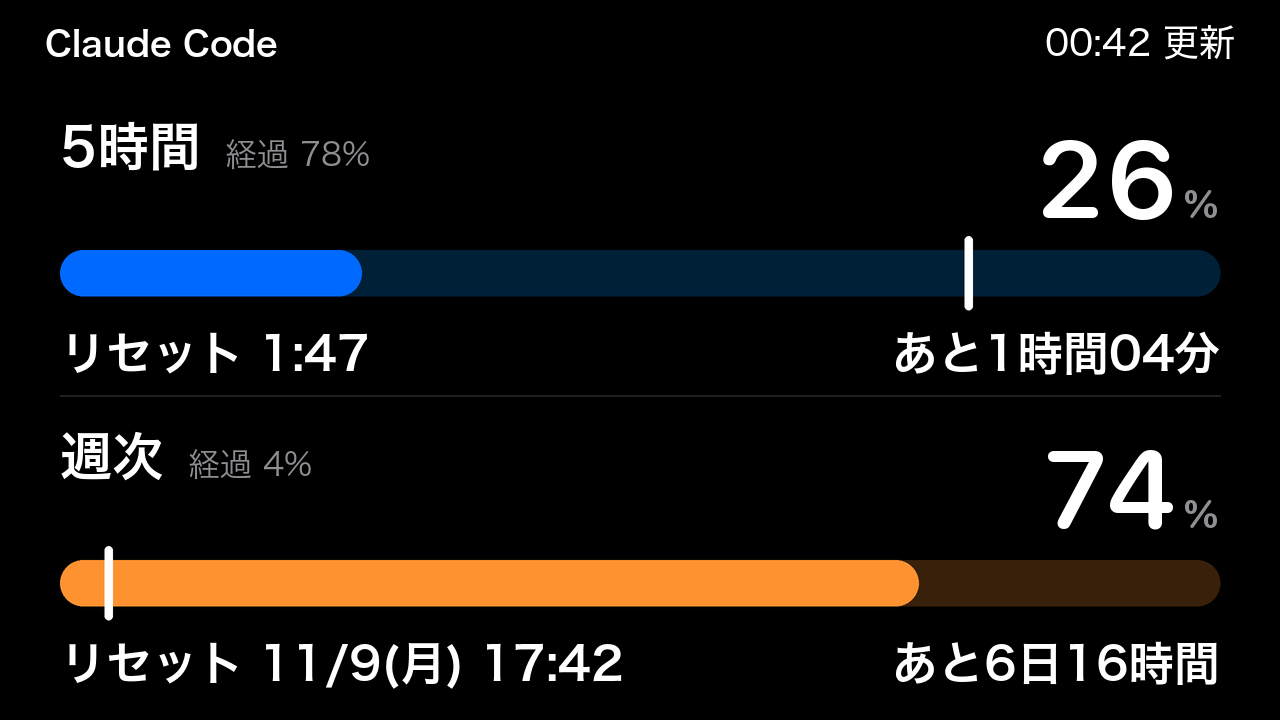
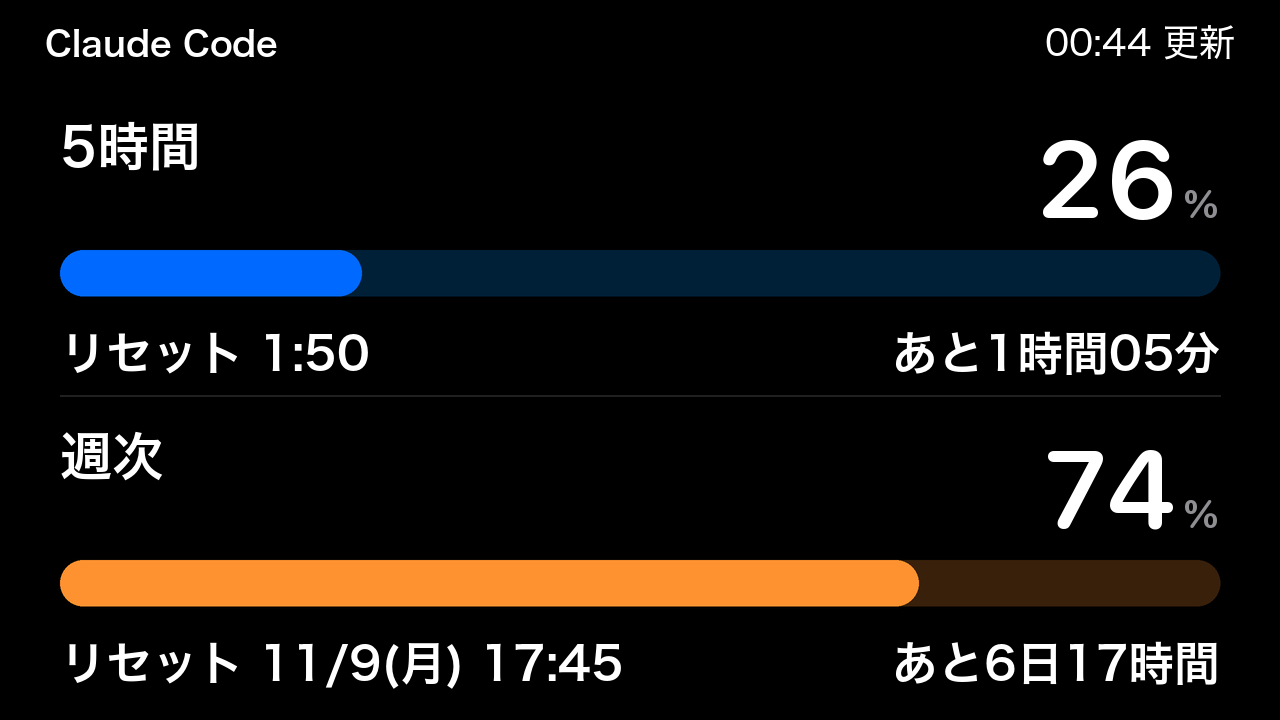
feat(pace): 経過の目印（縦棒）と「経過 N%」を外す
ユーザーの指示「時間経過の表記と縦棒は不要」。経過の割合の計算と定数・テストも消した。
画面の名前（--theme pace）は登録を変えずに使えるよう残した（docs/handover.md §4-25）。

diff --git a/claude_usage_display/pace.py b/claude_usage_display/pace.py
@@ -1,18 +1,18 @@
-"""経過の目印つきの横棒の画面（``--theme pace``）。5.2 インチで「5時間」と「週次」の 2 つだけを出す（2026-11-03）。
+"""5時間と週次の 2 つを太い横棒で出す画面（``--theme pace``）。5.2 インチ向けに作った（2026-11-03）。
 
 ユーザーが Fable を使っていないので 2 項目にし、見せ方を見本の 3 案から選んだ（「案 2」。``docs/handover.md`` §4-24）。
 
 - 上下 2 段に、Apple の Gauges の直線の容量ゲージ（値の位置まで塗る）を太い横棒で置く。2 本は同じ幅・同じ左端なので、
   棒の端の位置で 2 つを比べられる
-- 棒の上の白い目印は、枠の時間（5時間は 5 時間、週次は 7 日）のうちどれだけ過ぎたか。塗った部分が目印より右なら、
-  時間の進みより速く使っている。名前の右に「経過 78%」も出す
-- 数字は右上に大きく（% は小さく灰色）。下の行は、左にリセットの日時、右に残り時間
+- 数字は右上に（% は小さく灰色）。下の行は、左にリセットの日時、右に残り時間
+- 名前の pace は、最初は棒の上に枠の時間の経過の目印（と名前の右に「経過 N%」）を出していたことから。同じ日に、
+  ユーザーの指示「時間経過の表記と縦棒は不要」で外した。登録（``--theme pace``）を変えずに使えるよう、名前は残した
 - 寸法は 5.2 インチ（1280×720）のピクセルで持ち、ほかの大きさでは高さの比で縮める。見出しはゲージ型の画面と同じ
 """
 
 from __future__ import annotations
 
-from datetime import datetime, timedelta
+from datetime import datetime
 
 from PIL import Image, ImageDraw
 
@@ -22,29 +22,17 @@ from .render import font
 from .usage import Meter, Snapshot
 
 HEIGHT = 720  # 寸法を決めた画面の高さ
-WINDOWS = (timedelta(hours=5), timedelta(days=7))  # 5時間と週次の枠の長さ（API の five_hour・seven_day）
 MARGIN = 60          # 左右の余白
 ROWS = (100, 410)    # 2 段の上端
 DIVIDER = 395        # 2 段の間の線
 NAME = (66, 52)      # 名前の基準線（段の上端から）・大きさ
-PACE_SIZE = 32       # 名前の右の「経過 N%」の大きさ
-PACE_GAP = 24        # 名前と「経過」の間
 # 数字と下の行の大きさは、ユーザーの指示「使用量の数値をもう少し小さくして、その分リセットとあとを大きく」で、
-# 数字 140→110・% 50→40・下の行 36→46 にした（2026-11-03。下の行は大きくした分、基準線を 262→270 に下げ、
-# 経過の目印との間をそのままにした）
+# 数字 140→110・% 50→40・下の行 36→46 にした（2026-11-03。下の行は大きくした分、基準線を 262→270 に下げた）
 NUMBER = (118, 110)  # 数字の基準線・大きさ
 UNIT = 40            # 「%」の大きさ（同日、70→50 をユーザーの指示で小さくし、数字に合わせて 40 にした）
 UNIT_GAP = 4         # 数字と「%」の間
 BAR = (150, 196)     # 棒の上端と下端
-MARK = (8, 14)       # 経過の目印の幅と、棒の上下にはみ出す長さ
 LINE = (270, 46)     # 下の行の基準線・大きさ
-
-
-def elapsed(meter: Meter, window: timedelta, now: datetime) -> float | None:
-    """枠の時間のうち過ぎた割合（0〜1）。リセットの時刻が無ければ None。"""
-    if meter.resets_at is None:
-        return None
-    return max(0.0, min(1.0, 1 - (meter.resets_at - now) / window))
 
 
 def _reset_text(when: str) -> str:
@@ -63,8 +51,7 @@ def render(snapshot: Snapshot | None, now: datetime, status: str | None = None,
     meters = snapshot.meters[:2] if snapshot else tuple(Meter(label, None, None) for label in labels[:2])
 
     shapes = gauge._Shapes(layout)
-    marks = []
-    for meter, window, top in zip(meters, WINDOWS, ROWS):
+    for meter, top in zip(meters, ROWS):
         bar_top, bar_bottom = (top + BAR[0]) * s, (top + BAR[1]) * s
         radius = (bar_bottom - bar_top) / 2
         color = None if meter.percent is None else tint(meter.percent)
@@ -75,12 +62,6 @@ def render(snapshot: Snapshot | None, now: datetime, status: str | None = None,
         if meter.percent is not None and meter.percent > 0:
             end = left + (right - left) * min(meter.percent, 100) / 100
             shapes.rounded_rectangle((left, bar_top, max(end, left + 2 * radius), bar_bottom), radius, color)
-        fraction = elapsed(meter, window, now)
-        marks.append(fraction)
-        if fraction is not None:
-            half, reach = MARK[0] * s / 2, MARK[1] * s
-            x = min(max(left + (right - left) * fraction, left + half), right - half)  # 両端でも棒からはみ出さない
-            shapes.rounded_rectangle((x - half, bar_top - reach, x + half, bar_bottom + reach), half, LABEL)
     if status:
         shapes.circle(*gauge._badge(layout, gauge.HEADER_BASELINE), layout.px(7), ORANGE)
 
@@ -89,13 +70,8 @@ def render(snapshot: Snapshot | None, now: datetime, status: str | None = None,
     gauge._header(image, draw, layout, gauge.HEADER_BASELINE, "Claude Code", snapshot, status,
                   (icons or {}).get("claude"), layout.stamp)
     draw.line((left, DIVIDER * s, right, DIVIDER * s), fill=CARD, width=max(1, sized(2)))
-    for meter, fraction, top in zip(meters, marks, ROWS):
-        name_font = font(sized(NAME[1]), 6)
-        baseline = (top + NAME[0]) * s
-        draw.text((left, baseline), meter.label, font=name_font, fill=LABEL, anchor="ls")
-        if fraction is not None:
-            draw.text((left + name_font.getlength(meter.label) + PACE_GAP * s, baseline), f"経過 {fraction * 100:.0f}%",
-                      font=font(sized(PACE_SIZE), 3), fill=SECONDARY, anchor="ls")
+    for meter, top in zip(meters, ROWS):
+        draw.text((left, (top + NAME[0]) * s), meter.label, font=font(sized(NAME[1]), 6), fill=LABEL, anchor="ls")
         baseline = (top + NUMBER[0]) * s
         if meter.percent is None:
             draw.text((right, baseline), "--", font=rounded(sized(NUMBER[1])), fill=LABEL, anchor="rs")

diff --git a/tests/test_pace.py b/tests/test_pace.py
@@ -25,16 +25,7 @@ def bar_row(index):
 
 
 class PaceTest(unittest.TestCase):
-    def test_elapsed_is_the_share_of_the_window_that_has_passed(self):
-        # 5時間は 23:15 にリセット → 18:15 から 3 時間 55 分（78%）。週次は 3 日 5 時間後 → 7 日のうち 54%
-        session, weekly, _ = snapshot().meters
-        self.assertAlmostEqual(pace.elapsed(session, pace.WINDOWS[0], NOW), 235 / 300)
-        self.assertAlmostEqual(pace.elapsed(weekly, pace.WINDOWS[1], NOW), 1 - (3 * 24 + 5) / (7 * 24))
-        self.assertIsNone(pace.elapsed(Meter("5時間", None, None), pace.WINDOWS[0], NOW))
-        self.assertEqual(pace.elapsed(Meter("5時間", 1, NOW - timedelta(minutes=1)), pace.WINDOWS[0], NOW), 1.0)
-        self.assertEqual(pace.elapsed(Meter("週次", 1, NOW + timedelta(days=8)), pace.WINDOWS[1], NOW), 0.0)
-
-    def test_bars_are_filled_to_the_percent_and_marked_at_the_elapsed_share(self):
+    def test_bars_are_filled_to_the_percent(self):
         image = pace.render(snapshot(), NOW, size=SIZE)
         self.assertEqual(image.size, SIZE)
         left, right = pace.MARGIN, SIZE[0] - pace.MARGIN
@@ -42,11 +33,19 @@ class PaceTest(unittest.TestCase):
         blue = gauge.layout_for(SIZE).blue
         self.assertTrue(near(image.getpixel((round(left + (right - left) * 0.20), y)), blue))  # 26% の手前は塗る
         self.assertFalse(near(image.getpixel((round(left + (right - left) * 0.40), y)), blue))  # 26% より先は地
-        mark = round(left + (right - left) * 235 / 300)
-        self.assertTrue(near(image.getpixel((mark, y)), (255, 255, 255), 30))  # 経過 78% の位置に白い目印
-        above = round(pace.ROWS[0] + pace.BAR[0] - pace.MARK[1] / 2)
-        self.assertTrue(near(image.getpixel((mark, above)), (255, 255, 255), 30))  # 目印は棒の上にはみ出す
         self.assertTrue(near(image.getpixel((round(left + (right - left) * 0.5), bar_row(1))), gauge.ORANGE))  # 74%
+
+    def test_no_elapsed_mark_or_text(self):
+        # 2026-11-03、「時間経過の表記と縦棒は不要」（ユーザーの指示）。棒の上にも名前の右にも白い字・線を出さない
+        image = pace.render(snapshot(), NOW, size=SIZE)
+        left, right = pace.MARGIN, SIZE[0] - pace.MARGIN
+        for top in pace.ROWS:
+            band = [image.getpixel((x, y)) for x in range(left, right, 4)
+                    for y in range(top + pace.BAR[0] - 14, top + pace.BAR[1] + 14, 2)]
+            self.assertFalse(any(min(p) > 200 for p in band))
+            name_end = left + font(pace.NAME[1], 6).getlength("5時間") + 10
+            beside = [image.getpixel((x, top + pace.NAME[0] - 10)) for x in range(round(name_end), round(name_end) + 300)]
+            self.assertTrue(all(p == gauge.BACKGROUND for p in beside))
 
     def test_only_session_and_weekly_are_drawn(self):
         # Fable を使っていないので 2 項目だけ（2026-11-03 ユーザーの指示）。3 段目の位置は黒のまま
@@ -59,16 +58,14 @@ class PaceTest(unittest.TestCase):
         image = pace.render(gone, NOW, "5時間の枠がなくなりました", size=SIZE)
         badge = gauge._badge(gauge.layout_for(SIZE), gauge.HEADER_BASELINE)
         self.assertTrue(near(image.getpixel((round(badge[0]) - 10, round(badge[1]))), gauge.ORANGE, 40))  # 「!」の横
-        row = [image.getpixel((x, bar_row(0))) for x in range(pace.MARGIN + 40, SIZE[0] - pace.MARGIN - 40, 20)]
-        self.assertFalse(any(min(p) > 200 for p in row))  # 値もリセットも無い段には、目印を出さない
         self.assertEqual(pace.render(None, NOW, "通信できません", size=SIZE).size, SIZE)
 
     def test_long_texts_do_not_overlap(self):
-        # 名前と「経過 100%」は数字「100%」の左、下の行は左右で重ならない
+        # 名前は数字「100%」の左、下の行は左右で重ならない
         name, unit, number = font(pace.NAME[1], 6), gauge.rounded(pace.UNIT), gauge.rounded(pace.NUMBER[1])
-        pace_end = pace.MARGIN + name.getlength("5時間") + pace.PACE_GAP + font(pace.PACE_SIZE, 3).getlength("経過 100%")
+        name_end = pace.MARGIN + name.getlength("5時間")
         number_start = SIZE[0] - pace.MARGIN - unit.getlength("%") - pace.UNIT_GAP - number.getlength("100")
-        self.assertLess(pace_end + 40, number_start)
+        self.assertLess(name_end + 40, number_start)
         line = font(pace.LINE[1], 6)
         reset_end = pace.MARGIN + line.getlength("リセット 12/31(木) 23:59")
         remain_start = SIZE[0] - pace.MARGIN - line.getlength("あと6日23時間")  # 残り時間もリセットと同じ字

diff --git a/docs/handover.md b/docs/handover.md
@@ -491,6 +491,7 @@ scripts/uninstall-launch-agent.sh                                 # 自動起動
 - **リングを大きくした**（同日、ユーザーの指示「5 インチのサークルもう少し大きくできる？」）。リングの大きさの上限は縦で決まる（上の段は異常の 2 行の帯の下端 54 の下、下の段は画面の下端 320 の手前）。半径 56（外径 252 px）と 60（270 px）の見本を描き、ユーザーが 60（推奨）を選んだ。数字は 38→44（86→99 px）、リングの太さ 11→12。上下の段を 44・182 → 48・183、横の区切り線を 182 → 184.5 に動かし、リングと文字のまとまりを左右の区画の中央に置き直した。上の段のリングの上端は 57（2 行の帯との間は 5.2 インチで約 7 px）、下の段の下端は 312（下の余白 18 px）。入れた配置が見本と 1 ピクセルも違わないことを確かめた
 - **3.5 インチ 2 台の明るさを 25% → 35% にした**（同日 00:39、ユーザーの指示「2 台とも 40% にしてみて」→ 実機を見て「2 台とも 5% 下げて」）。パネルに送る値は 191 → 165（`turing.brightness_level`、255 − 35 × 255 ÷ 100 = 165.75 の切り捨て）。5.2 インチは 40% のまま
 - **利用枠の画面（`pace`）の数字を小さくし、下の行を大きくした**（同日、ユーザーの指示「使用量の数値をもう少し小さくして、その分リセットとあとを大きくして」）。5.2 インチの寸法で、数字 140→110・% 50→40・下の行（リセットと残り時間）36→46。下の行の基準線は 262→270 に下げ、経過の目印との間をそのままにした。3.5 インチでは、数字 62→49 px、下の行 16→20 px
+- **経過の目印と「経過 N%」を外した**（同日、ユーザーの指示「時間経過の表記と縦棒は不要」）。経過の割合の計算（`pace.elapsed`）と定数・テストも消した。画面の名前（`--theme pace`）は、登録を変えずに使えるよう残し、由来を `pace.py` の docstring に書いた
 
 ## 5. 残っている作業（上から順に）
 
